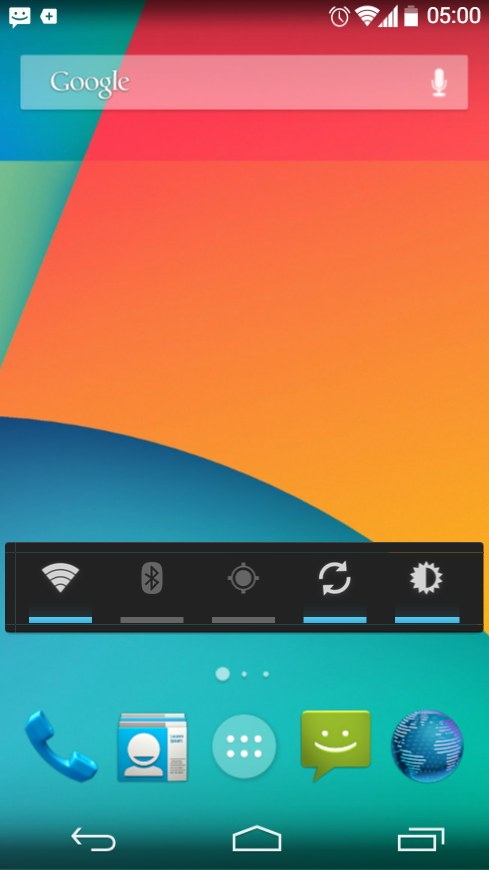
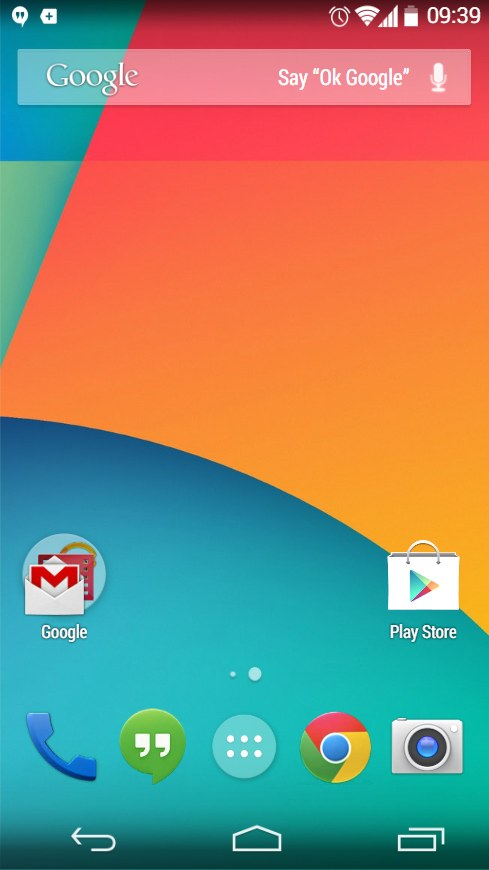
KitKat catalog: 'Nexus 5' (stock Google experience) with a new description and landing shot of the Google Now Launcher home; README covers the Google Now Launcher, Hangouts and Chrome

diff --git a/i18n.js b/i18n.js
@@ -590,6 +590,7 @@
     ['Weather','Időjárás','Wetter','Météo','Tiempo'],
     ['Photo Gallery','Fotógaléria','Fotogalerie','Galerie photos','Galería de fotos'],
     ['Tomorrow','Holnap','Morgen','Demain','Mañana'],
+    ["The stock Nexus 5: the Google Now Launcher with Google Now, Hangouts for SMS, Chrome, translucent system bars, the new Dialer, Email and Play Store drawer, and the Dessert Case easter egg.","A gyári Nexus 5: a Google Now Launcher a Google Now-val, SMS a Hangoutsban, Chrome, áttetsző rendszersávok, az új Tárcsázó, az Email, a Play Áruház menüfiókja és a Dessert Case húsvéti tojás.","Das Nexus 5 im Auslieferungszustand: der Google Now Launcher mit Google Now, Hangouts für SMS, Chrome, transparente Systemleisten, die neue Telefon-App, E-Mail, die Play Store-Navigationsleiste und das Dessert-Case-Easter-Egg.","Le Nexus 5 d'origine : le Google Now Launcher avec Google Now, Hangouts pour les SMS, Chrome, les barres système translucides, le nouveau Téléphone, E-mail, le panneau du Play Store et l'easter egg Dessert Case.","El Nexus 5 de serie: Google Now Launcher con Google Now, Hangouts para los SMS, Chrome, barras del sistema translúcidas, el nuevo Teléfono, Correo, el panel de Play Store y el huevo de Pascua Dessert Case."],
     ["Search or type URL","Keresés vagy URL beírása","Suchbegriff oder URL eingeben","Rechercher ou saisir une URL","Buscar o escribir URL"],
     ["Reload","Újratöltés","Neu laden","Actualiser","Volver a cargar"],
     ["Mobile bookmarks","Mobil könyvjelzők","Mobile Lesezeichen","Favoris sur mobile","Marcadores del móvil"],

diff --git a/versions/catalog.js b/versions/catalog.js
@@ -39,11 +39,11 @@ window.ANDROID_VERSIONS = [
     name: 'KitKat',
     version: 'Android 4.4.4',
     year: '2014',
-    device: 'Nexus 5 · AOSP',
-    description: 'Translucent system bars, Launcher3 with dynamic pages and the wallpaper picker, the new Dialer, Email and Play Store drawer, and the Dessert Case easter egg.',
+    device: 'Nexus 5',
+    description: 'The stock Nexus 5: the Google Now Launcher with Google Now, Hangouts for SMS, Chrome, translucent system bars, the new Dialer, Email and Play Store drawer, and the Dessert Case easter egg.',
     url: 'versions/4.4.4/',
     status: 'available',
-    art: {shot: 'landing-home.jpg?v=3', phone: 'nexus5'}
+    art: {shot: 'landing-home.jpg?v=4', phone: 'nexus5'}
   },
   { id: '5.1.1', name: 'Lollipop', version: 'Android 5.1.1', year: '2015', device: 'Korabeli Android', status: 'planned' }
 ];

diff --git a/index.html b/index.html
@@ -8,8 +8,8 @@
   <title>Android Time Machine</title>
   <link rel="icon" type="image/svg+xml" href="favicon.svg">
   <link rel="stylesheet" href="styles.css?v=15">
-  <script defer src="i18n.js?v=61"></script>
-  <script defer src="versions/catalog.js?v=15"></script>
+  <script defer src="i18n.js?v=62"></script>
+  <script defer src="versions/catalog.js?v=16"></script>
   <script defer src="app.js?v=10"></script>
 </head>
 <body>

diff --git a/README.md b/README.md
@@ -99,17 +99,18 @@ The new screens have been checked in all five languages at phone sizes. The stat
 
 ## KitKat 4.4.4
 
-`versions/4.4.4/` is Android 4.4.4 (build KTU84P, AOSP tag `android-4.4.4_r1`) on the Nexus 5, with its own saved data. References and measurements are in [docs/visual-audit-4.4.md](docs/visual-audit-4.4.md).
+`versions/4.4.4/` is Android 4.4.4 (build KTU84P, AOSP tag `android-4.4.4_r1`) on the Nexus 5, with its own saved data. It shows the stock Nexus 5: the Google Now Launcher, Google Now, Hangouts and Chrome, which are not in AOSP and were rebuilt from 2013–2014 screenshots and Google's Android 4.4 Quick Start Guide. The AOSP Messaging and Browser apps stay in the drawer. References and measurements are in [docs/visual-audit-4.4.md](docs/visual-audit-4.4.md).
 
 - **Nexus 5 and system bars:**
   - The frame is traced from Google's render.
   - The bars are translucent with gradients on the launcher and keyguard, and opaque in apps.
   - White status icons, the BatteryMeterView and the KitKat navigation keys.
-- **Launcher3:** the 4 × 4 Nexus 5 grid with the Google search bar, five hotseat cells and page markers.
+- **Google Now Launcher (Launcher3):** the 4 × 4 Nexus 5 grid, the "Say “Ok Google”" search bar, the Google folder and Play Store, and the Phone / Hangouts / apps / Chrome / Camera dock.
+  - Google Now is the leftmost screen, with weather, the next calendar event and the "Ok Google" tip card.
   - Dynamic pages: an empty page appears while you drag and is removed afterwards.
   - The two-screen default wallpaper pans with the pages.
-  - All apps has no tabs. Folders are white.
-  - Long-press opens the overview with Wallpapers and Widgets. The Launcher3 clings show on first run.
+  - All apps has no tabs and no widget pages. Folders are white.
+  - Long-press opens the overview with Wallpapers, Widgets and Settings. Widgets open from there. The Launcher3 clings show on first run.
 - **Wallpaper picker:**
   - It is fullscreen with the *Set wallpaper* bar.
   - The strip offers Pick image (through DocumentsUI "Open from"), the default wallpaper, saved images and the live wallpapers.
@@ -132,7 +133,9 @@ The new screens have been checked in all five languages at phone sizes. The stat
   - The navigation drawer (Store home, My apps, My wishlist, Redeem, Settings, Help), opened by its button or a swipe from the left edge.
   - The six striped tiles with Newsstand, and the "simplified permissions" note.
   - Clusters with MORE, the grouped permissions dialog, Additional information, and *Require password for purchases*.
-- Camera, Gallery, Calendar and Browser match their 4.3 versions, as in AOSP. All screens have been checked in English, Hungarian, German, French and Spanish.
+- **Hangouts 2.0:** the SMS app, with the conversation list, the New Hangout picker and SMS conversations of white cards. Notifications and shares open it.
+- **Chrome 31:** the omnibox toolbar, the menu with Back / Forward / Bookmark, the stacked tab switcher, the New Tab page (Most visited, Bookmarks, Other devices), incognito tabs and history. Its tabs are kept separate from the AOSP Browser.
+- Camera (the arc quick settings that the Nexus 5 shipped with), Gallery, Calendar and the AOSP Browser match their 4.3 versions, as in AOSP. All screens have been checked in English, Hungarian, German, French and Spanish.
 
 ## Adding a version
 
